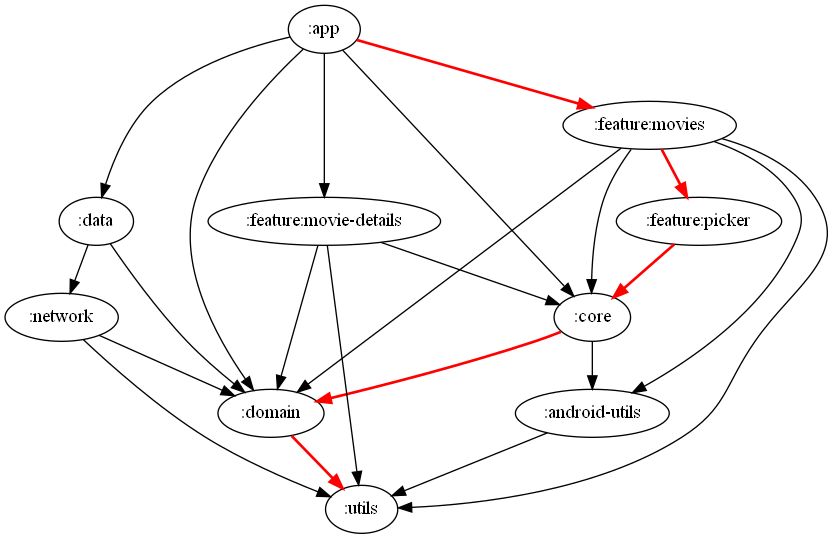
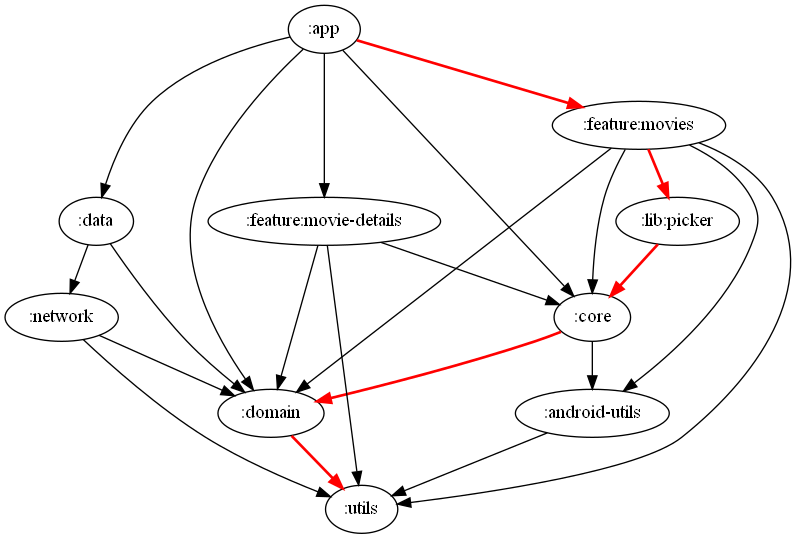
[movies] build: Update module graph assert configuration
This update is done because of the previous commit, which fixed the
problem of a feature depending on another feature.

Also, as part of this commit the 'module_graph_assert' files were
updated as well to reflect the change.

diff --git a/buildSrc/src/main/kotlin/io/petros/movies/config/Config.kt b/buildSrc/src/main/kotlin/io/petros/movies/config/Config.kt
@@ -140,13 +140,13 @@ object Config {
 
     object Module {
 
-        @Suppress("MagicNumber", "ForbiddenComment")
+        @Suppress("MagicNumber")
         object GraphAssert {
 
             const val MAX_HEIGHT = 5 // '4' is the default.
 
-            val moduleLayers = arrayOf(":feature:\\S*", ":core\\S*") // TODO: ":lib\\S*"
-            val moduleLayersExclude = arrayOf(":feature:movies -> :feature:picker")
+            val moduleLayers = arrayOf(":feature:\\S*", ":lib:\\S*", ":core\\S*")
+            val moduleLayersExclude = emptyArray<String>()
             val restricted = arrayOf(":feature-[a-z]* -X> :forbidden-to-depend-on")
             val configurations = setOf("api", "implementation")
 
